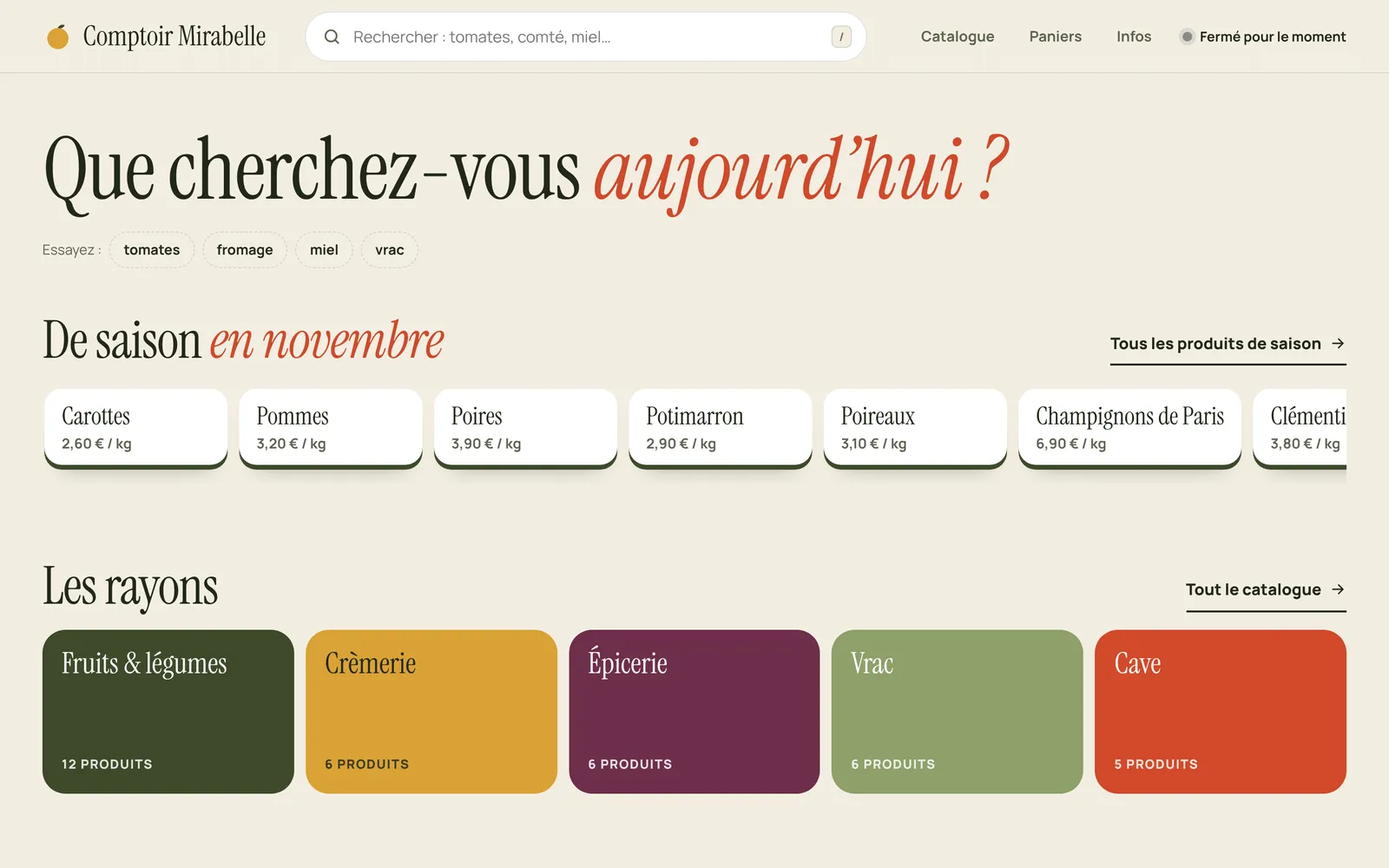
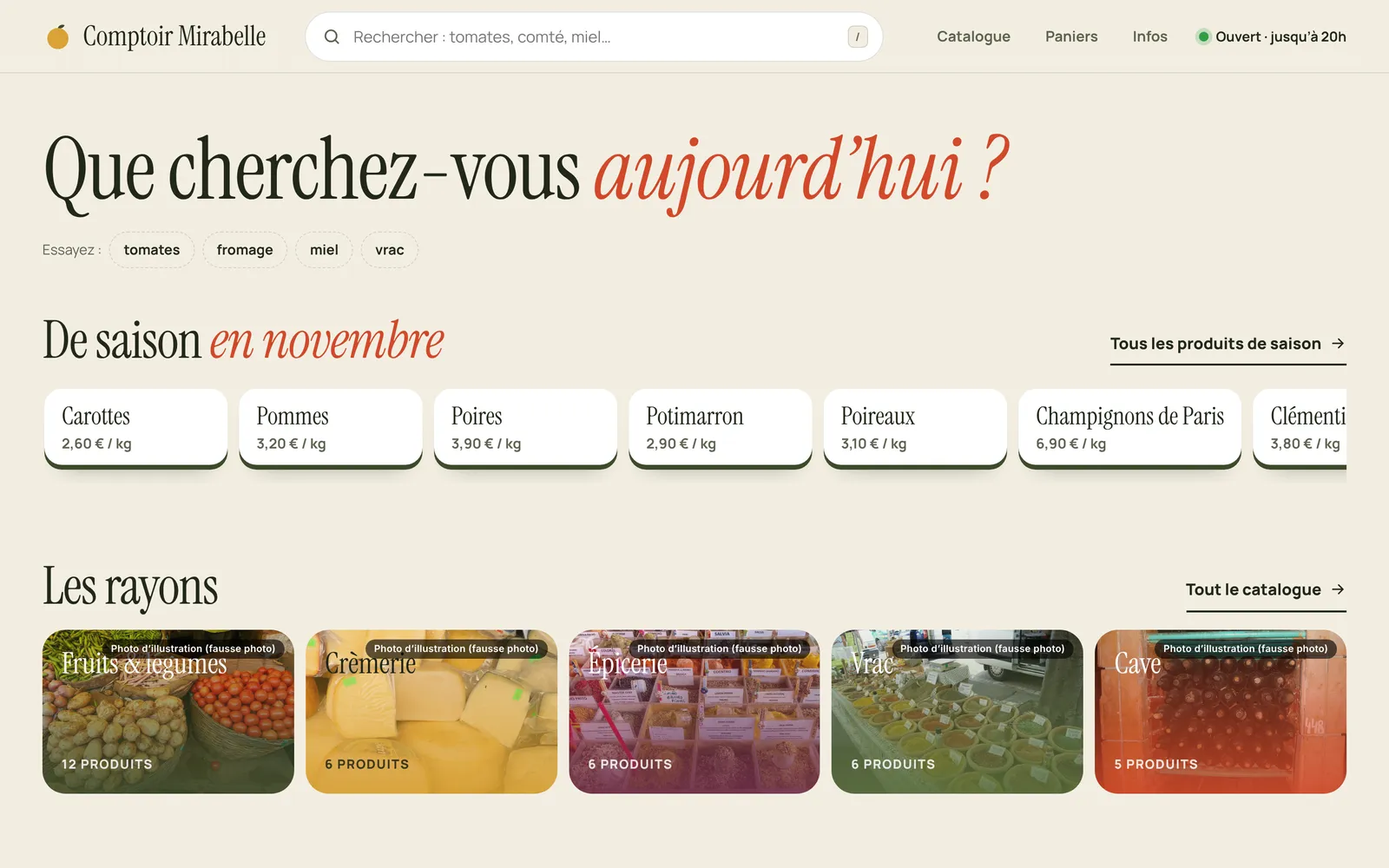
Démos : vraies photos libres de droits, signalées comme fausses photos
- 24 photos Wikimédia Commons (CC0, CC BY, CC BY-SA) hébergées avec les sites
- Étiquette « Photo d'illustration (fausse photo) » sur chaque image et mention en bas de page
- Page de crédits (auteur, licence, source) ; lien depuis les mentions légales
- Illustrations vectorielles remplacées ; photo de saison dynamique chez Verdance
- Captures des fiches régénérées

Claude-Session: https://claude.ai/code/session_017Fojcj4hrGguwLa62msUvN

Changed region(s): [[0.0312, 0.713, 0.9688, 0.93], [0.5938, 0.0, 0.9688, 0.062]]

diff --git a/public/demos/credits.html b/public/demos/credits.html
@@ -1,0 +1,58 @@
+<!doctype html>
+<html lang="fr"><head><meta charset="utf-8"><meta name="viewport" content="width=device-width, initial-scale=1">
+<title>Crédits photos — sites de démonstration</title>
+<meta name="robots" content="noindex, nofollow">
+<link rel="stylesheet" href="shared.css">
+<style>
+body{background:#f6f4ee;color:#1d1d1b;font:16px/1.6 system-ui,-apple-system,"Segoe UI",sans-serif}
+main{max-width:860px;margin:0 auto;padding:40px 18px 80px}
+h1{font-size:clamp(2rem,5vw,3rem);line-height:1.05;margin:0 0 12px}h2{margin:36px 0 10px;font-size:1.4rem}
+ul{list-style:none;padding:0;margin:0;display:grid;gap:10px}li{display:flex;gap:14px;align-items:center;background:#fff;border-radius:12px;padding:10px}
+li img{width:96px;height:64px;object-fit:cover;border-radius:8px;flex:none}li div{font-size:.9rem}a{color:#1b4fd8}
+.lead{color:#555;max-width:62ch}
+</style></head>
+<body>
+<div class="demo-bar"><span>Site de démonstration<span class="hide-s"> conçu par NOVERA Agency</span></span><a href="../realisations/">Retour aux réalisations</a></div>
+<main>
+<h1>Crédits photos</h1>
+<p class="lead">Les photos des sites de démonstration sont des <b>images d’illustration (fausses photos)</b>, libres de droits, issues de Wikimédia Commons. Elles ne représentent pas les établissements présentés, qui sont fictifs. Chaque image reste soumise à la licence de son auteur, indiquée ci-dessous.</p>
+<h2>Maison Levain</h2>
+<ul>
+<li><img src="photos/boulangerie-pains.webp" alt="" width="96" height="64" loading="lazy"><div><b>Pains rustiques dans une corbeille</b><br>Auteur : Tomascastelazo · <a href="https://creativecommons.org/licenses/by-sa/4.0/">CC BY-SA 4.0</a><br><a href="https://commons.wikimedia.org/wiki/File:Home_made_sour_dough_bread.jpg" rel="noopener">Source sur Wikimédia Commons</a></div></li>
+<li><img src="photos/boulangerie-croissants.webp" alt="" width="96" height="64" loading="lazy"><div><b>Croissants sur une assiette</b><br>Auteur : Ezarate · <a href="https://creativecommons.org/licenses/by-sa/4.0/">CC BY-SA 4.0</a><br><a href="https://commons.wikimedia.org/wiki/File:MediasLunasenMardelPlata.jpg" rel="noopener">Source sur Wikimédia Commons</a></div></li>
+<li><img src="photos/boulangerie-vitrine.webp" alt="" width="96" height="64" loading="lazy"><div><b>Vitrine de pâtisseries et viennoiseries</b><br>Auteur : Andy Li · <a href="https://creativecommons.org/publicdomain/zero/1.0/">CC0</a><br><a href="https://commons.wikimedia.org/wiki/File:Display_case_of_Boulangerie_du_Port_-_Maison_Trihan_02_2025-03-25.jpg" rel="noopener">Source sur Wikimédia Commons</a></div></li>
+</ul>
+<h2>La Table d’Aurèle</h2>
+<ul>
+<li><img src="photos/restaurant-salle-bleue.webp" alt="" width="96" height="64" loading="lazy"><div><b>Salle de restaurant aux banquettes bleues</b><br>Auteur : Wilfredor · <a href="https://creativecommons.org/publicdomain/zero/1.0/">CC0</a><br><a href="https://commons.wikimedia.org/wiki/File:Restaurant_in_Place_D%27Youville,_Quebec_City.jpg" rel="noopener">Source sur Wikimédia Commons</a></div></li>
+<li><img src="photos/restaurant-salle-blanche.webp" alt="" width="96" height="64" loading="lazy"><div><b>Salle de restaurant, tables rondes nappées</b><br>Auteur : Basile Morin · <a href="https://creativecommons.org/licenses/by-sa/4.0/">CC BY-SA 4.0</a><br><a href="https://commons.wikimedia.org/wiki/File:Restaurant_room_of_Amantaka_luxury_Resort_%26_Hotel_in_Luang_Prabang_Laos.jpg" rel="noopener">Source sur Wikimédia Commons</a></div></li>
+<li><img src="photos/restaurant-galerie.webp" alt="" width="96" height="64" loading="lazy"><div><b>Galerie ouverte d’un restaurant</b><br>Auteur : Basile Morin · <a href="https://creativecommons.org/licenses/by-sa/4.0/">CC BY-SA 4.0</a><br><a href="https://commons.wikimedia.org/wiki/File:Row_of_round_tables_and_doors_in_restaurant_of_Amantaka_luxury_Resort_%26_Hotel_in_Luang_Prabang_Laos.jpg" rel="noopener">Source sur Wikimédia Commons</a></div></li>
+</ul>
+<h2>Anatolia Kebab</h2>
+<ul>
+<li><img src="photos/kebab-sandwich.webp" alt="" width="96" height="64" loading="lazy"><div><b>Sandwich kebab tenu à la main</b><br>Auteur : Alex Kehr from Malibu, United States · <a href="https://creativecommons.org/licenses/by/2.0/">CC BY 2.0</a><br><a href="https://commons.wikimedia.org/wiki/File:Donner_Kebab,_Cologne,_Germany_(1057919169).jpg" rel="noopener">Source sur Wikimédia Commons</a></div></li>
+<li><img src="photos/kebab-durum.webp" alt="" width="96" height="64" loading="lazy"><div><b>Kebab dans son papier</b><br>Auteur : Lauren Travis · <a href="https://creativecommons.org/licenses/by/2.0/">CC BY 2.0</a><br><a href="https://commons.wikimedia.org/wiki/File:Doener_Kebab_(9682662957).jpg" rel="noopener">Source sur Wikimédia Commons</a></div></li>
+<li><img src="photos/kebab-broche.webp" alt="" width="96" height="64" loading="lazy"><div><b>Broche de viande à kebab</b><br>Auteur : Vyacheslav Argenberg · <a href="https://creativecommons.org/licenses/by/4.0/">CC BY 4.0</a><br><a href="https://commons.wikimedia.org/wiki/File:Shawarma_stand_in_central_Aleppo,_Syria.jpg" rel="noopener">Source sur Wikimédia Commons</a></div></li>
+<li><img src="photos/kebab-decoupe.webp" alt="" width="96" height="64" loading="lazy"><div><b>Viande tranchée à la broche</b><br>Auteur : Vyacheslav Argenberg · <a href="https://creativecommons.org/licenses/by/4.0/">CC BY 4.0</a><br><a href="https://commons.wikimedia.org/wiki/File:Shawarma_preparation_in_central_Aleppo,_Syria.jpg" rel="noopener">Source sur Wikimédia Commons</a></div></li>
+<li><img src="photos/kebab-mezze.webp" alt="" width="96" height="64" loading="lazy"><div><b>Table de grillades et de mezzés</b><br>Auteur : Hongkongfoodlover123 · <a href="https://creativecommons.org/licenses/by-sa/4.0/">CC BY-SA 4.0</a><br><a href="https://commons.wikimedia.org/wiki/File:New_Punjab_Club_food_spread.jpg" rel="noopener">Source sur Wikimédia Commons</a></div></li>
+</ul>
+<h2>Comptoir Mirabelle</h2>
+<ul>
+<li><img src="photos/epicerie-legumes.webp" alt="" width="96" height="64" loading="lazy"><div><b>Étal de légumes</b><br>Auteur : Timothy A. Gonsalves · <a href="https://creativecommons.org/licenses/by-sa/4.0/">CC BY-SA 4.0</a><br><a href="https://commons.wikimedia.org/wiki/File:Potato_Bean_Tomato_Veg_Stall_Ooty_Market_Nilgiris_Aug25_A7CR_07103.jpg" rel="noopener">Source sur Wikimédia Commons</a></div></li>
+<li><img src="photos/epicerie-fromages.webp" alt="" width="96" height="64" loading="lazy"><div><b>Fromages affinés</b><br>Auteur : Ezarate · <a href="https://creativecommons.org/licenses/by-sa/4.0/">CC BY-SA 4.0</a><br><a href="https://commons.wikimedia.org/wiki/File:Quesos-LaRural-00921.jpg" rel="noopener">Source sur Wikimédia Commons</a></div></li>
+<li><img src="photos/epicerie-epices.webp" alt="" width="96" height="64" loading="lazy"><div><b>Épices en bacs</b><br>Auteur : Wilfredor · <a href="https://creativecommons.org/licenses/by-sa/4.0/">CC BY-SA 4.0</a><br><a href="https://commons.wikimedia.org/wiki/File:Spices_of_Sa%C3%BAde_flea_market,_S%C3%A3o_Paulo,_Brazil.jpg" rel="noopener">Source sur Wikimédia Commons</a></div></li>
+<li><img src="photos/epicerie-vrac.webp" alt="" width="96" height="64" loading="lazy"><div><b>Épices et aromates en vrac</b><br>Auteur : Barbara-Ingeborg · <a href="https://creativecommons.org/licenses/by-sa/4.0/">CC BY-SA 4.0</a><br><a href="https://commons.wikimedia.org/wiki/File:Spice_market_stand.jpg" rel="noopener">Source sur Wikimédia Commons</a></div></li>
+<li><img src="photos/epicerie-cave.webp" alt="" width="96" height="64" loading="lazy"><div><b>Bouteilles de vin en cave</b><br>Auteur : Guttorm Flatabø from Sogndal, Norway · <a href="https://creativecommons.org/licenses/by/2.0/">CC BY 2.0</a><br><a href="https://commons.wikimedia.org/wiki/File:Bottles_of_wine_in_the_wine_cellars_of_Coju%C5%9Fna_winery_(188832855).jpg" rel="noopener">Source sur Wikimédia Commons</a></div></li>
+<li><img src="photos/epicerie-marche.webp" alt="" width="96" height="64" loading="lazy"><div><b>Étal de fruits et légumes de marché</b><br>Auteur : Friedrich Haag · <a href="https://creativecommons.org/licenses/by-sa/4.0/">CC BY-SA 4.0</a><br><a href="https://commons.wikimedia.org/wiki/File:Gesundes_Leben_002_2014_03_19.jpg" rel="noopener">Source sur Wikimédia Commons</a></div></li>
+<li><img src="photos/epicerie-fruits.webp" alt="" width="96" height="64" loading="lazy"><div><b>Étal de fruits colorés</b><br>Auteur : By en:User:Daderot. · <a href="https://creativecommons.org/licenses/by-sa/3.0/">CC BY-SA 3.0</a><br><a href="https://commons.wikimedia.org/wiki/File:Fruit_Stall_in_Barcelona_Market.jpg" rel="noopener">Source sur Wikimédia Commons</a></div></li>
+</ul>
+<h2>Verdance Paysage</h2>
+<ul>
+<li><img src="photos/paysagiste-printemps.webp" alt="" width="96" height="64" loading="lazy"><div><b>Crocus au printemps dans un parc</b><br>Auteur : Dietmar Rabich · <a href="https://creativecommons.org/licenses/by-sa/4.0/">CC BY-SA 4.0</a><br><a href="https://commons.wikimedia.org/wiki/File:Bredevoort_(NL)_--_2018_--_1877.jpg" rel="noopener">Source sur Wikimédia Commons</a></div></li>
+<li><img src="photos/paysagiste-ete.webp" alt="" width="96" height="64" loading="lazy"><div><b>Pelouse et sentier dans un parc verdoyant</b><br>Auteur : Acabashi · <a href="https://creativecommons.org/licenses/by-sa/4.0/">CC BY-SA 4.0</a><br><a href="https://commons.wikimedia.org/wiki/File:A_garden_path_and_lawn_Gibberd_Garden_Essex_England.JPG" rel="noopener">Source sur Wikimédia Commons</a></div></li>
+<li><img src="photos/paysagiste-automne.webp" alt="" width="96" height="64" loading="lazy"><div><b>Jardin à la française en automne</b><br>Auteur : Daniel Kraft · <a href="https://creativecommons.org/licenses/by-sa/3.0/">CC BY-SA 3.0</a><br><a href="https://commons.wikimedia.org/wiki/File:Balmoral_Castle_garden_20211026.jpg" rel="noopener">Source sur Wikimédia Commons</a></div></li>
+<li><img src="photos/paysagiste-hiver.webp" alt="" width="96" height="64" loading="lazy"><div><b>Sous-bois enneigé</b><br>Auteur : Trougnouf (Benoit Brummer) · <a href="https://creativecommons.org/licenses/by/4.0/">CC BY 4.0</a><br><a href="https://commons.wikimedia.org/wiki/File:Snowy_garden_in_Bois_de_Roly_(DSC00089).jpg" rel="noopener">Source sur Wikimédia Commons</a></div></li>
+<li><img src="photos/paysagiste-roses.webp" alt="" width="96" height="64" loading="lazy"><div><b>Mur de briques couvert de rosiers</b><br>Auteur : Acabashi · <a href="https://creativecommons.org/licenses/by-sa/4.0/">CC BY-SA 4.0</a><br><a href="https://commons.wikimedia.org/wiki/File:Trained_rose_and_shrub_rose_against_brick_wall_in_Boreham,_Essex,_England.jpg" rel="noopener">Source sur Wikimédia Commons</a></div></li>
+<li><img src="photos/paysagiste-bassin.webp" alt="" width="96" height="64" loading="lazy"><div><b>Jardin avec bassin et massifs</b><br>Auteur : King of Hearts · <a href="https://creativecommons.org/licenses/by-sa/3.0/">CC BY-SA 3.0</a><br><a href="https://commons.wikimedia.org/wiki/File:Brooklyn_Botanic_Garden_New_York_May_2015_panorama_2.jpg" rel="noopener">Source sur Wikimédia Commons</a></div></li>
+</ul>
+</main></body></html>

diff --git a/public/demos/boulangerie/index.html b/public/demos/boulangerie/index.html
@@ -44,17 +44,8 @@
     </article>
     <article class="col">
       <figure class="fig">
-        <svg viewBox="0 0 380 290" role="img" aria-label="Gravure d’un pain de campagne et d’épis de blé">
-          <ellipse cx="190" cy="248" rx="160" ry="14" fill="rgba(29,26,23,.14)"/>
-          <path d="M38 196c-6-72 58-132 152-132s158 60 152 132c-2 32-30 46-152 46S40 228 38 196Z" fill="#E3B56A" stroke="#1D1A17" stroke-width="3.500"/>
-          <path d="M60 192c0-46 44-90 130-92" stroke="#F6DCA2" stroke-width="10" stroke-linecap="round" fill="none" opacity=".7"/>
-          <g fill="#F6F0DF" stroke="#1D1A17" stroke-width="3" stroke-linejoin="round"><path d="M92 134c20 14 34 42 40 78-16-2-30-10-42-24-8-18-6-38 2-54Z"/><path d="M150 108c16 22 24 54 26 104-14 0-26-4-34-12-8-26-6-62 8-92Z"/><path d="M212 106c10 24 12 60 8 106-14 2-26-2-34-10-4-30 4-68 26-96Z"/><path d="M272 126c4 28-4 62-22 88-12 2-24 0-32-6 14-28 30-60 54-82Z"/></g>
-          <g stroke="#1D1A17" stroke-width="1.800" stroke-linecap="round" opacity=".5"><path d="M70 222h240M86 232h208M52 210h276"/></g>
-          <g fill="#1D1A17"><circle cx="112" cy="84" r="2.500"/><circle cx="168" cy="72" r="2.500"/><circle cx="236" cy="78" r="2.500"/><circle cx="288" cy="100" r="2.500"/><circle cx="60" cy="150" r="2"/><circle cx="324" cy="160" r="2"/></g>
-          <path d="M338 270c-6-60-4-120 10-190" stroke="#1D1A17" stroke-width="3" stroke-linecap="round" fill="none"/>
-          <g fill="#D9A441" stroke="#1D1A17" stroke-width="2.500"><ellipse cx="344" cy="88" rx="8" ry="15" transform="rotate(-12 344 88)"/><ellipse cx="338" cy="118" rx="8" ry="15" transform="rotate(-18 338 118)"/><ellipse cx="354" cy="112" rx="8" ry="15" transform="rotate(10 354 112)"/><ellipse cx="334" cy="150" rx="8" ry="15" transform="rotate(-22 334 150)"/><ellipse cx="352" cy="146" rx="8" ry="15" transform="rotate(14 352 146)"/></g>
-        </svg>
-        <figcaption>Pain de campagne au levain naturel, cuit ce matin.</figcaption>
+        <figure class="ph" style="aspect-ratio:4/3"><img src="../photos/boulangerie-pains.webp" alt="Pains rustiques dans une corbeille" loading="lazy" decoding="async"><span class="ph-tag">Photo d’illustration (fausse photo)</span></figure>
+        <figcaption>Pains rustiques. Photo d’illustration, pas une photo de la boulangerie.</figcaption>
       </figure>
     </article>
     <aside class="col oven" id="fournees" aria-labelledby="au-four">
@@ -83,6 +74,7 @@
   <span>© <span data-year>2026</span> — Site de démonstration. Boulangerie, adresse, horaires et prix fictifs.</span>
 </footer>
 
+<p class="photo-note">Les photos de ce site sont des images d’illustration libres de droits (fausses photos) : ce ne sont pas des photos de l’établissement, qui est fictif. <a href="../credits.html">Crédits photos</a></p>
 <script src="../demo.js" defer></script>
 <script src="site.js" defer></script>
 </body>

diff --git a/public/demos/epicerie/styles.css b/public/demos/epicerie/styles.css
@@ -178,3 +178,21 @@ textarea.input{min-height:110px;resize:vertical}
   .search{grid-row:3}
   .infos{grid-template-columns:1fr}
 }
+
+/* Photos : rayons et paniers */
+.tile,.banner-card{position:relative;overflow:hidden;background-size:cover;background-position:center;isolation:isolate}
+.tile::after,.banner-card::after{content:'Photo d’illustration (fausse photo)';position:absolute;right:10px;top:10px;z-index:2;padding:4px 9px;border-radius:999px;background:rgba(0,0,0,.62);color:#fff;font:600 10px/1.2 system-ui,sans-serif;letter-spacing:.02em}
+.tile.c-fl{background-image:linear-gradient(0deg,rgba(61,74,42,.9),rgba(61,74,42,.1)),url('../photos/epicerie-legumes.webp')}
+.tile.c-cr{background-image:linear-gradient(0deg,rgba(217,162,54,.92),rgba(217,162,54,.08)),url('../photos/epicerie-fromages.webp')}
+.tile.c-ep{background-image:linear-gradient(0deg,rgba(110,47,74,.9),rgba(110,47,74,.1)),url('../photos/epicerie-epices.webp')}
+.tile.c-vr{background-image:linear-gradient(0deg,rgba(90,110,60,.9),rgba(90,110,60,.1)),url('../photos/epicerie-vrac.webp')}
+.tile.c-cv{background-image:linear-gradient(0deg,rgba(210,73,42,.9),rgba(210,73,42,.1)),url('../photos/epicerie-cave.webp')}
+.tile.c-cr b,.tile.c-cr span{color:#1f2418}
+.banner-card{background-image:linear-gradient(90deg,rgba(61,74,42,.95) 20%,rgba(61,74,42,.35)),url('../photos/epicerie-marche.webp')}
+.tagcard .band{height:92px;background-size:cover;background-position:center}
+.tagcard.c-fl .band{background-image:linear-gradient(0deg,rgba(61,74,42,.88),rgba(61,74,42,.3)),url('../photos/epicerie-legumes.webp')}
+.tagcard.c-cr .band{background-image:linear-gradient(0deg,rgba(217,162,54,.9),rgba(217,162,54,.3)),url('../photos/epicerie-fromages.webp')}
+.tagcard.c-ep .band{background-image:linear-gradient(0deg,rgba(110,47,74,.88),rgba(110,47,74,.3)),url('../photos/epicerie-epices.webp')}
+.tagcard.c-vr .band{background-image:linear-gradient(0deg,rgba(90,110,60,.88),rgba(90,110,60,.3)),url('../photos/epicerie-vrac.webp')}
+.tagcard.c-cv .band{background-image:linear-gradient(0deg,rgba(210,73,42,.88),rgba(210,73,42,.3)),url('../photos/epicerie-cave.webp')}
+.ph.wide{margin-bottom:28px}

diff --git a/public/demos/paysagiste/saisons.html b/public/demos/paysagiste/saisons.html
@@ -36,15 +36,7 @@
       <p class="s-line" id="s-line">Le moment de créer.</p>
       <ul class="tasks" id="s-tasks"></ul>
     </div>
-    <div class="tree-wrap" aria-hidden="true">
-      <svg viewBox="0 0 300 380">
-        <ellipse cx="150" cy="350" rx="110" ry="14" fill="rgba(0,0,0,.14)"/>
-        <path d="M144 350c2-60 0-110-10-160M156 350c-2-60 0-110 10-160M150 250c-30-30-52-44-76-52M150 230c26-26 48-40 74-46" stroke="#5B4632" stroke-width="12" stroke-linecap="round" fill="none"/>
-        <g class="shape" fill="var(--tree)" fill-opacity="var(--leaf-op)"><circle cx="150" cy="120" r="84"/><circle cx="80" cy="170" r="52"/><circle cx="220" cy="170" r="52"/><circle cx="110" cy="76" r="44"/><circle cx="196" cy="80" r="44"/></g>
-        <g class="shape" fill="var(--bloom)"><circle cx="120" cy="110" r="7"/><circle cx="170" cy="86" r="7"/><circle cx="196" cy="140" r="7"/><circle cx="92" cy="168" r="7"/><circle cx="150" cy="160" r="7"/><circle cx="222" cy="176" r="7"/><circle cx="140" cy="52" r="6"/></g>
-        <ellipse class="shape" cx="150" cy="72" rx="86" ry="28" fill="#fff" opacity="calc(var(--snow)*.9)"/>
-      </svg>
-    </div>
+    <figure class="ph sphoto"><img id="s-photo" src="../photos/paysagiste-printemps.webp" alt="Jardin au printemps" loading="lazy" decoding="async"><span class="ph-tag">Photo d’illustration (fausse photo)</span></figure>
   </section>
   <div class="go"><a href="methode.html" class="btn">Notre méthode</a><a href="etude.html" class="btn btn--ghost">Demander une étude</a></div>
 </main>
@@ -52,6 +44,7 @@
     <span>© <span data-year>2026</span> Verdance Paysage — Site de démonstration.</span><span>Entreprise, adresse et coordonnées fictives.</span>
   </footer>
 </div>
+<p class="photo-note">Les photos de ce site sont des images d’illustration libres de droits (fausses photos) : ce ne sont pas des photos de l’établissement, qui est fictif. <a href="../credits.html">Crédits photos</a></p>
 <script src="../demo.js" defer></script>
 <script src="site.js" defer></script>
 </body>

diff --git a/public/demos/restaurant/maison.html b/public/demos/restaurant/maison.html
@@ -32,10 +32,12 @@
     <div class="stmt reveal"><span class="rn" aria-hidden="true">i</span><div><h3>Le produit <em>d’abord.</em></h3><p>Des fournisseurs identifiés, des légumes de saison, une carte qui s’adapte à leurs arrivages.</p></div></div>
     <div class="stmt s2 reveal"><span class="rn" aria-hidden="true">ii</span><div><h3>Une cave <em>courte et vivante.</em></h3><p>Quelques vins de vignerons, servis au verre ou à la bouteille, choisis pour accompagner la cuisine.</p></div></div>
     <div class="stmt s3 reveal"><span class="rn" aria-hidden="true">iii</span><div><h3>Le temps <em>de la table.</em></h3><p>Un service attentif et discret, pour un déjeuner d’affaires comme pour un dîner à deux.</p></div></div>
+    <div class="duo"><figure class="ph" style="aspect-ratio:3/2"><img src="../photos/restaurant-salle-blanche.webp" alt="Salle de restaurant, tables rondes nappées" loading="lazy" decoding="async"><span class="ph-tag">Photo d’illustration (fausse photo)</span></figure><figure class="ph" style="aspect-ratio:3/2"><img src="../photos/restaurant-galerie.webp" alt="Galerie ouverte d’un restaurant" loading="lazy" decoding="async"><span class="ph-tag">Photo d’illustration (fausse photo)</span></figure></div>
     <p class="legal"><span>© <span data-year>2026</span> La Table d’Aurèle — Site de démonstration.</span><span>Établissement, adresse, horaires et prix fictifs.</span></p>
   </section>
 </main>
 
+<p class="photo-note">Les photos de ce site sont des images d’illustration libres de droits (fausses photos) : ce ne sont pas des photos de l’établissement, qui est fictif. <a href="../credits.html">Crédits photos</a></p>
 <script src="../demo.js" defer></script>
 <script src="site.js" defer></script>
 </body>

diff --git a/public/demos/kebab/index.html b/public/demos/kebab/index.html
@@ -33,6 +33,7 @@
     <h1>Faim<em>?</em></h1>
     <div class="box eta"><b>Prêt en 10 min</b><span>Commande à emporter, préparée à la minute (exemple).</span></div>
   </section>
+  <div class="photos"><figure class="ph"><img src="../photos/kebab-sandwich.webp" alt="Sandwich kebab tenu à la main" loading="lazy" decoding="async"><span class="ph-tag">Photo d’illustration (fausse photo)</span></figure><figure class="ph"><img src="../photos/kebab-broche.webp" alt="Broche de viande à kebab" loading="lazy" decoding="async"><span class="ph-tag">Photo d’illustration (fausse photo)</span></figure><figure class="ph"><img src="../photos/kebab-decoupe.webp" alt="Viande tranchée à la broche" loading="lazy" decoding="async"><span class="ph-tag">Photo d’illustration (fausse photo)</span></figure></div>
   <div class="pad" style="padding-top:8px">
     <section class="block" aria-labelledby="inc">
       <h2 id="inc">Les incontournables</h2>
@@ -71,6 +72,7 @@
 
 <p class="foot-note">© <span data-year>2026</span> Anatolia Kebab — Site de démonstration. Établissement, adresse, horaires et prix fictifs. Aucune commande n’est envoyée.</p>
 <div class="toast" id="toast" role="status" aria-live="polite"></div>
+<p class="photo-note">Les photos de ce site sont des images d’illustration libres de droits (fausses photos) : ce ne sont pas des photos de l’établissement, qui est fictif. <a href="../credits.html">Crédits photos</a></p>
 <script src="../demo.js" defer></script>
 <script src="site.js" defer></script>
 </body>

diff --git a/public/demos/shared.css b/public/demos/shared.css
@@ -12,6 +12,13 @@ button,input,select,textarea{font:inherit;color:inherit}
 .demo-bar a{color:#fff;font-weight:600;text-decoration:underline;text-underline-offset:3px}
 .demo-bar a::before{content:'← '}
 @media (max-width:560px){.hide-s{display:none}}
+/* Photos d'illustration : étiquette visible sur chaque image + mention de bas de page */
+.ph{position:relative;margin:0;overflow:hidden;background:#d9d5cc}
+.ph img{width:100%;height:100%;object-fit:cover;display:block}
+.ph-tag{position:absolute;right:10px;bottom:10px;z-index:2;max-width:calc(100% - 20px);padding:5px 10px;border-radius:999px;background:rgba(0,0,0,.68);color:#fff;font:600 10.5px/1.2 system-ui,-apple-system,"Segoe UI",sans-serif;letter-spacing:.02em;backdrop-filter:blur(4px);pointer-events:none}
+.photo-note{margin:0;padding:18px 16px calc(18px + env(safe-area-inset-bottom,0px));text-align:center;font:500 12px/1.5 system-ui,-apple-system,"Segoe UI",sans-serif;color:var(--note-ink,#6b6b6b)}
+.photo-note a{color:inherit;text-decoration:underline;text-underline-offset:3px;font-weight:700}
+@media (max-width:900px){.photo-note{padding-bottom:84px}}
 .skip-link{position:absolute;left:12px;top:-80px;z-index:1100;background:#000;color:#fff;padding:10px 16px;border-radius:8px;transition:top .2s}
 .skip-link:focus{top:calc(var(--bar) + 8px)}
 .sr-only{position:absolute;width:1px;height:1px;margin:-1px;padding:0;overflow:hidden;clip:rect(0,0,0,0);white-space:nowrap;border:0}

diff --git a/public/demos/epicerie/catalogue.html b/public/demos/epicerie/catalogue.html
@@ -41,6 +41,7 @@
 <main id="contenu">
   <div class="top"><h1>Le <em>catalogue.</em></h1></div>
   <p class="count" id="count" role="status" aria-live="polite"></p>
+  <p class="note" style="padding-top:0">Les photos des rayons sont des images d’illustration (fausses photos) : elles ne représentent pas les produits réels.</p>
   <div class="grid" id="grid"></div>
   <p class="more-wrap"><button class="btn" type="button" id="more" hidden>Afficher plus de produits</button></p>
   <p class="note">Catalogue d’exemple : produits, origines et prix fictifs. L’abus d’alcool est dangereux pour la santé.</p>
@@ -50,6 +51,7 @@
   <span><strong>Comptoir Mirabelle</strong><br>Épicerie fine de quartier — commerce fictif présenté à titre de démonstration.</span>
   <span>Lundi – samedi 8h – 20h · Dimanche 9h – 13h<br>© <span data-year>2026</span> — Site de démonstration. Commerce, adresse et prix fictifs.</span>
 </footer>
+<p class="photo-note">Les photos de ce site sont des images d’illustration libres de droits (fausses photos) : ce ne sont pas des photos de l’établissement, qui est fictif. <a href="../credits.html">Crédits photos</a></p>
 <script src="../demo.js" defer></script>
 <script src="site.js" defer></script>
 </body>

diff --git a/public/demos/paysagiste/methode.html b/public/demos/paysagiste/methode.html
@@ -38,6 +38,7 @@
       <div class="stop reveal" style="--d:.16s"><b>3</b><h3>Réalisation</h3><p>Chantier organisé par étapes, avec des points réguliers avec vous.</p></div>
       <div class="stop reveal" style="--d:.24s"><b>4</b><h3>Suivi</h3><p>Conseils d’entretien et, si vous le souhaitez, un contrat saisonnier.</p></div>
     </div>
+    <figure class="ph wide" style="margin-top:clamp(32px,5vw,56px)"><img src="../photos/paysagiste-roses.webp" alt="Mur de briques couvert de rosiers" loading="lazy" decoding="async"><span class="ph-tag">Photo d’illustration (fausse photo)</span></figure>
   </section>
   <div class="go"><a href="etude.html" class="btn">Demander mon étude gratuite</a></div>
 </main>
@@ -45,6 +46,7 @@
     <span>© <span data-year>2026</span> Verdance Paysage — Site de démonstration.</span><span>Entreprise, adresse et coordonnées fictives.</span>
   </footer>
 </div>
+<p class="photo-note">Les photos de ce site sont des images d’illustration libres de droits (fausses photos) : ce ne sont pas des photos de l’établissement, qui est fictif. <a href="../credits.html">Crédits photos</a></p>
 <script src="../demo.js" defer></script>
 <script src="site.js" defer></script>
 </body>

diff --git a/public/demos/boulangerie/carte.html b/public/demos/boulangerie/carte.html
@@ -53,6 +53,7 @@
     </div></div>
   </section>
 
+  <div class="duo"><figure class="ph" style="aspect-ratio:3/2"><img src="../photos/boulangerie-croissants.webp" alt="Croissants sur une assiette" loading="lazy" decoding="async"><span class="ph-tag">Photo d’illustration (fausse photo)</span></figure><figure class="ph" style="aspect-ratio:3/2"><img src="../photos/boulangerie-vitrine.webp" alt="Vitrine de pâtisseries et viennoiseries" loading="lazy" decoding="async"><span class="ph-tag">Photo d’illustration (fausse photo)</span></figure></div>
   <p style="text-align:center;padding-bottom:clamp(28px,4vw,52px)"><a class="btn" href="commande.html#bon" style="text-decoration:none">Précommander</a></p>
 </main>
 
@@ -61,6 +62,7 @@
   <span>© <span data-year>2026</span> — Site de démonstration. Boulangerie, adresse, horaires et prix fictifs.</span>
 </footer>
 
+<p class="photo-note">Les photos de ce site sont des images d’illustration libres de droits (fausses photos) : ce ne sont pas des photos de l’établissement, qui est fictif. <a href="../credits.html">Crédits photos</a></p>
 <script src="../demo.js" defer></script>
 <script src="site.js" defer></script>
 </body>

diff --git a/public/demos/epicerie/paniers.html b/public/demos/epicerie/paniers.html
@@ -29,6 +29,7 @@
 </header>
 
 <main id="contenu" class="solo">
+  <figure class="ph wide"><img src="../photos/epicerie-fruits.webp" alt="Étal de fruits colorés" loading="lazy" decoding="async"><span class="ph-tag">Photo d’illustration (fausse photo)</span></figure>
   <section class="order" aria-labelledby="cmd">
     <h1 id="cmd">Commander <em>un panier.</em></h1>
     <p class="lead">Choisissez un panier de la semaine, ou envoyez votre propre liste. Nous le préparons pour l’heure de retrait de votre choix.</p>
@@ -58,6 +59,7 @@
   <span><strong>Comptoir Mirabelle</strong><br>Épicerie fine de quartier — commerce fictif présenté à titre de démonstration.</span>
   <span>Lundi – samedi 8h – 20h · Dimanche 9h – 13h<br>© <span data-year>2026</span> — Site de démonstration. Commerce, adresse et prix fictifs.</span>
 </footer>
+<p class="photo-note">Les photos de ce site sont des images d’illustration libres de droits (fausses photos) : ce ne sont pas des photos de l’établissement, qui est fictif. <a href="../credits.html">Crédits photos</a></p>
 <script src="../demo.js" defer></script>
 <script src="site.js" defer></script>
 </body>

diff --git a/public/demos/paysagiste/index.html b/public/demos/paysagiste/index.html
@@ -75,12 +75,14 @@
       <span class="ideal" id="p-ideal">Idéal pour un terrain neuf ou à repenser</span>
     </div>
   </section>
+  <div style="padding:0 var(--pad) clamp(20px,3vw,36px)"><figure class="ph wide"><img src="../photos/paysagiste-bassin.webp" alt="Jardin avec bassin et massifs" loading="lazy" decoding="async"><span class="ph-tag">Photo d’illustration (fausse photo)</span></figure></div>
   <div class="go"><a href="saisons.html" class="btn">Voir le jardin au fil des saisons</a><a href="etude.html" class="btn btn--ghost">Demander une étude gratuite</a></div>
 </main>
   <footer class="foot" style="padding-inline:var(--pad)">
     <span>© <span data-year>2026</span> Verdance Paysage — Site de démonstration.</span><span>Entreprise, adresse et coordonnées fictives.</span>
   </footer>
 </div>
+<p class="photo-note">Les photos de ce site sont des images d’illustration libres de droits (fausses photos) : ce ne sont pas des photos de l’établissement, qui est fictif. <a href="../credits.html">Crédits photos</a></p>
 <script src="../demo.js" defer></script>
 <script src="site.js" defer></script>
 </body>
